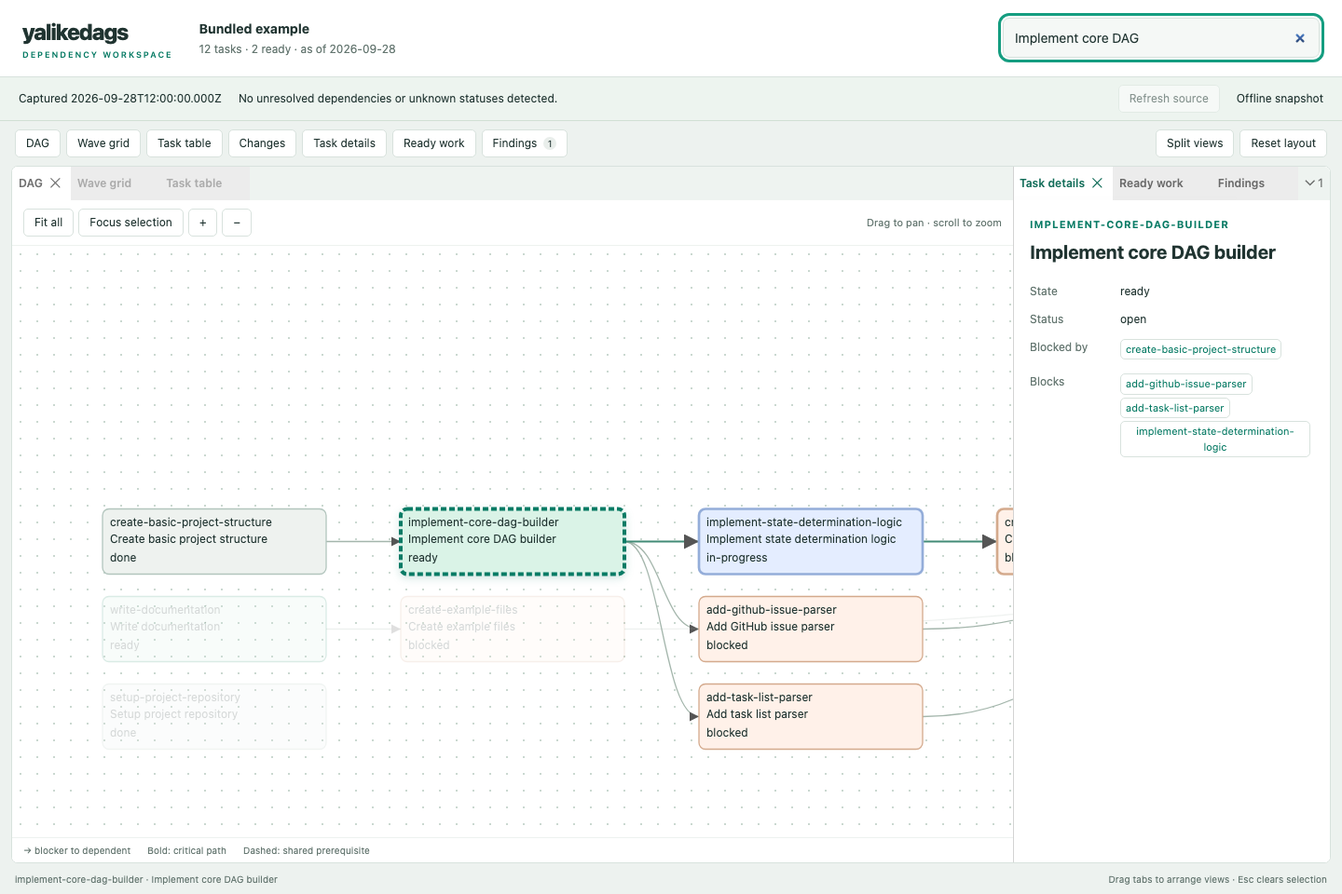
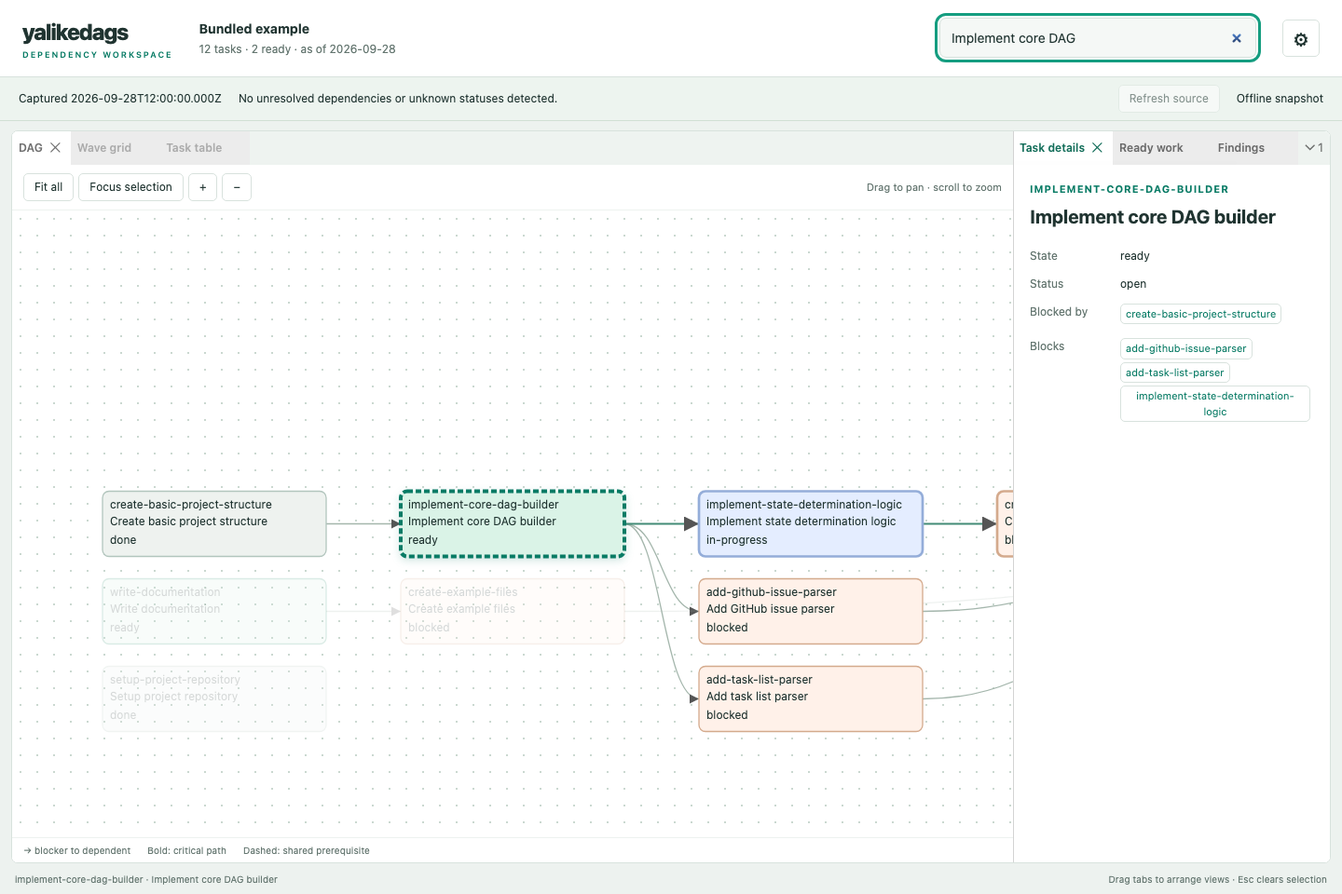
feat: move workspace actions into a header cog dropdown

diff --git a/e2e/viewer.pw.ts b/e2e/viewer.pw.ts
@@ -1,4 +1,4 @@
-import { dockWaveGrid } from "./workspace.ts";
+import { dockWaveGrid, workspaceAction } from "./workspace.ts";
 import { test, expect } from "@playwright/test";
 import { pathToFileURL } from "node:url";
 import { resolve } from "node:path";
@@ -26,9 +26,9 @@ for (const url of ["http://127.0.0.1:4178", exported]) {
     await page.locator("#search-results button").first().click();
     await expect(page.locator("#detail h2")).toContainText("Implement core DAG builder");
     await expect(page.locator("#graph .node.selected")).toHaveCount(1);
-    await page.getByRole("button", { name: "Show wave grid", exact: true }).click();
+    await workspaceAction(page, "Show wave grid");
     await expect(page.locator("#grid .card.selected")).toHaveCount(1);
-    await page.getByRole("button", { name: "Show DAG", exact: true }).click();
+    await workspaceAction(page, "Show DAG");
     const svg = page.locator("#graph svg");
     await page.getByRole("button", { name: "Fit all", exact: true }).click();
     const fitted = await svg.getAttribute("viewBox");
@@ -55,7 +55,7 @@ test("panels can be rearranged, restored and reset without losing selection", as
   await page.reload();
   await expect(page.locator("#graph")).toBeVisible();
   await expect(page.locator("#grid")).toBeVisible();
-  await page.getByRole("button", { name: "Reset layout", exact: true }).click();
+  await workspaceAction(page, "Reset layout");
   await expect(page.locator("#graph")).toBeVisible();
   await expect(page.locator("#grid")).not.toBeVisible();
 });
@@ -67,7 +67,7 @@ test("closing and reopening panels retains shared selection; nodes work from the
   await page.keyboard.press("Enter");
   await expect(page.locator("#detail h2")).toContainText("Implement core DAG builder");
   await page.getByRole("button", { name: "Close DAG", exact: true }).click();
-  await page.getByRole("button", { name: "Show DAG", exact: true }).click();
+  await workspaceAction(page, "Show DAG");
   await expect(page.locator("#graph .node.selected")).toHaveCount(1);
 });
 
@@ -97,7 +97,7 @@ test("empty projects, hostile text, and unavailable storage remain usable offlin
   await page.goto(pathToFileURL(resolve("dist/viewer-empty.html")).href);
   await expect(page.locator("body")).toHaveAttribute("data-ready", "true");
   await expect(page.locator("#graph-panel")).toContainText("No tasks");
-  await page.getByRole("button", { name: "Show wave grid", exact: true }).click();
+  await workspaceAction(page, "Show wave grid");
   await expect(page.locator("#grid")).toContainText("Nothing schedulable");
   await page.goto(pathToFileURL(resolve("dist/viewer-escaping.html")).href);
   await page.getByRole("searchbox", { name: "Find a task" }).fill("Unsafe");
@@ -105,7 +105,7 @@ test("empty projects, hostile text, and unavailable storage remain usable offlin
   await expect(page.locator("#detail h2")).toContainText("</script><img");
   await expect(page.locator("img")).toHaveCount(0);
   await expect(page.locator('a[href^="javascript:"]')).toHaveCount(0);
-  await page.getByRole("button", { name: "Reset layout", exact: true }).click();
+  await workspaceAction(page, "Reset layout");
   await expect(page.locator("#graph .node.selected")).toHaveCount(1);
   expect(errors).toEqual([]);
 });
@@ -116,7 +116,7 @@ test("a crowded graph is searchable and a narrow screen keeps controls reachable
   await page.getByRole("searchbox", { name: "Find a task" }).fill("PRO-150");
   await page.locator("#search-results button").first().click();
   await expect(page.locator("#detail h2")).toHaveText("Example task 150");
-  await page.getByRole("button", { name: "Show DAG", exact: true }).click();
+  await workspaceAction(page, "Show DAG");
   await expect(page.locator("#graph .node.selected")).toHaveCount(1);
   expect(await page.evaluate(() => document.documentElement.scrollWidth <= window.innerWidth)).toBe(true);
 });
@@ -145,21 +145,21 @@ test("a corrupt saved layout falls back to the default workspace", async ({ page
 
 test("task table sorts and filters while retaining the wave grid", async ({ page }) => {
   await page.goto(exported);
-  await page.getByRole("button", { name: "Show task table", exact: true }).click();
+  await workspaceAction(page, "Show task table");
   await page.getByRole("searchbox", { name: "Filter tasks" }).fill("parser");
   await expect(page.locator("#task-table tbody tr")).toHaveCount(2);
   await page.getByRole("button", { name: "Sort by Title", exact: true }).click();
   await expect(page.locator("#task-table thead th[aria-sort=ascending]")).toContainText("Title");
   await page.locator("#task-table tbody button").first().click();
   await expect(page.locator("#detail h2")).toContainText("parser");
-  await page.getByRole("button", { name: "Show wave grid", exact: true }).click();
+  await workspaceAction(page, "Show wave grid");
   await expect(page.locator("#grid")).toBeVisible();
 });
 
 test("served refresh preserves selection, filters, sorting and docked layout; failure preserves the page", async ({ page }) => {
   await page.addInitScript(() => { Object.defineProperty(window, "localStorage", { get: () => { throw new Error("Storage denied"); } }); });
   await page.goto("http://127.0.0.1:4178");
-  await page.getByRole("button", { name: "Show task table", exact: true }).click();
+  await workspaceAction(page, "Show task table");
   await page.getByRole("searchbox", { name: "Filter tasks", exact: true }).fill("parser");
   await page.getByRole("button", { name: "Sort by Title", exact: true }).click();
   await page.locator("#task-table tbody tr button").first().click();
@@ -177,7 +177,7 @@ test("served refresh preserves selection, filters, sorting and docked layout; fa
   await expect(page.locator("#detail h2")).toHaveText(selection ?? "");
   await expect(page.locator("#graph")).toBeVisible();
   await expect(page.locator("#grid")).toBeVisible();
-  await page.getByRole("button", { name: "Show task table", exact: true }).click();
+  await workspaceAction(page, "Show task table");
   await expect(page.getByRole("searchbox", { name: "Filter tasks", exact: true })).toHaveValue("parser");
   await expect(page.locator('#task-table th[aria-sort="ascending"]')).toHaveText("Title");
   await expect(page.locator("#task-table tbody tr")).toHaveCount(2);
@@ -188,7 +188,7 @@ test("offline comparison explains added blockers without sending the selected fi
   await page.goto(exported);
   page.on("request", (request) => requests.push(request.url()));
   await expect(page.getByRole("button", { name: "Refresh source", exact: true })).toBeDisabled();
-  await page.getByRole("button", { name: "Changes", exact: true }).click();
+  await workspaceAction(page, "Changes");
   await page.getByLabel("Compare snapshot JSON").setInputFiles({
     name: "earlier.json", mimeType: "application/json", buffer: Buffer.from(JSON.stringify({
       schema: "yalikedags/snapshot/1", capturedAt: "2026-09-20T10:00:00.000Z",
@@ -205,13 +205,13 @@ test("closing the task table preserves filters and does not break selection else
   const errors: string[] = [];
   page.on("pageerror", (error) => errors.push(error.message));
   await page.goto(exported);
-  await page.getByRole("button", { name: "Show task table", exact: true }).click();
+  await workspaceAction(page, "Show task table");
   await page.getByRole("searchbox", { name: "Filter tasks", exact: true }).fill("parser");
   await page.getByRole("button", { name: "Close Task table", exact: true }).click();
   await page.getByRole("searchbox", { name: "Find a task" }).fill("Implement core DAG");
   await page.locator("#search-results button").first().click();
   await expect(page.locator("#detail h2")).toContainText("Implement core DAG builder");
-  await page.getByRole("button", { name: "Show task table", exact: true }).click();
+  await workspaceAction(page, "Show task table");
   await expect(page.getByRole("searchbox", { name: "Filter tasks", exact: true })).toHaveValue("parser");
   await expect(page.locator("#task-table tbody tr")).toHaveCount(2);
   expect(errors).toEqual([]);
@@ -221,7 +221,7 @@ test("table headers stay flush with their scroll viewport in both directions", a
   await page.setViewportSize({ width: 1000, height: 500 });
   await page.goto(exported);
   for (const { view, selector } of [{ view: "Show task table", selector: "#table-panel .table-scroll" }, { view: "Show wave grid", selector: "#grid" }]) {
-    await page.getByRole("button", { name: view, exact: true }).click();
+    await workspaceAction(page, view);
     const viewport = page.locator(selector);
     await expect(viewport).toBeVisible();
     await viewport.evaluate((el) => { el.scrollTop = 120; el.scrollLeft = 80; });
@@ -237,7 +237,7 @@ test("table headers stay flush with their scroll viewport in both directions", a
 test("task rows use the same state colors as DAG nodes, including selected rows", async ({ page }) => {
   await page.goto(exported);
   const colors = await page.locator("#graph .node").evaluateAll((nodes) => nodes.map((node) => ({ id: node.getAttribute("data-id"), color: getComputedStyle(node.querySelector("rect")!).fill })));
-  await page.getByRole("button", { name: "Show task table", exact: true }).click();
+  await workspaceAction(page, "Show task table");
   for (const row of await page.locator("#task-table tbody tr").all()) {
     const id = await row.getAttribute("data-id");
     expect(await row.evaluate((el) => getComputedStyle(el).backgroundColor)).toBe(colors.find((entry) => entry.id === id)?.color);
@@ -247,4 +247,25 @@ test("task rows use the same state colors as DAG nodes, including selected rows"
   await expect(first).toHaveClass(/selected/);
   const selectedId = await first.getAttribute("data-id");
   expect(await first.evaluate((el) => getComputedStyle(el).backgroundColor)).toBe(colors.find((entry) => entry.id === selectedId)?.color);
+});
+
+test("workspace controls live in a dismissible keyboard-accessible header dropdown", async ({ page }) => {
+  await page.goto(exported);
+  const toggle = page.getByRole("button", { name: "Workspace settings", exact: true });
+  await expect(page.locator(".workspace-toolbar")).toHaveCount(0);
+  await expect(page.locator("header").getByRole("button", { name: "Workspace settings", exact: true })).toBeVisible();
+  await toggle.click();
+  await expect(toggle).toHaveAttribute("aria-expanded", "true");
+  await page.getByRole("button", { name: "Show task table", exact: true }).click();
+  await expect(page.locator("#task-table")).toBeVisible();
+  await expect(toggle).toHaveAttribute("aria-expanded", "false");
+  await toggle.focus();
+  await page.keyboard.press("ArrowDown");
+  await expect(page.getByRole("button", { name: "Show DAG", exact: true })).toBeFocused();
+  await page.keyboard.press("Escape");
+  await expect(toggle).toBeFocused();
+  await expect(toggle).toHaveAttribute("aria-expanded", "false");
+  await toggle.click();
+  await page.locator(".brand").click();
+  await expect(toggle).toHaveAttribute("aria-expanded", "false");
 });

diff --git a/src/viewer/browser/viewer.css b/src/viewer/browser/viewer.css
@@ -1,11 +1,11 @@
 :root{font:14px/1.5 -apple-system,BlinkMacSystemFont,"Segoe UI",sans-serif;color:#203431;background:#edf2ef;--accent:#087b65;--line:#d8e2dd;--muted:#647670}
 *{box-sizing:border-box}body{margin:0;height:100dvh;display:flex;flex-direction:column;overflow:hidden}button,input{font:inherit}button{cursor:pointer}button:focus-visible,input:focus-visible,a:focus-visible,.node:focus-visible{outline:3px solid #159d80;outline-offset:2px}button{color:inherit;background:#fff;border:1px solid var(--line);border-radius:5px;padding:5px 11px}button:hover{background:#eef6f2;border-color:#9ab5a9}a{color:var(--accent)}
 .app-header{display:flex;align-items:center;gap:28px;padding:16px 24px;background:#fff;border-bottom:1px solid var(--line)}.brand{font-size:24px;font-weight:800;letter-spacing:-1px;white-space:nowrap}.brand span{display:block;font-size:9px;font-weight:600;letter-spacing:1.8px;color:var(--accent)}.project{flex:1;min-width:0}.project strong{display:block;overflow:hidden;text-overflow:ellipsis;white-space:nowrap;font-size:14px}.project span{color:var(--muted);font-size:12px}.search{position:relative;width:340px;max-width:40vw}.search input{width:100%;padding:10px 12px;background:#f5f8f6;border:1px solid var(--line);border-radius:7px;color:inherit}.search input::placeholder{font-size:12px}#search-results{position:absolute;z-index:1000;top:46px;right:0;width:450px;max-width:90vw;max-height:360px;overflow:auto;background:#fff;border:1px solid var(--line);box-shadow:0 12px 32px #183d2c25;border-radius:6px;padding:6px}#search-results button{display:block;width:100%;text-align:left;border:0;padding:10px}#search-results p{margin:8px;color:var(--muted);font-size:12px}
-.workspace-toolbar{display:flex;align-items:center;gap:6px;padding:9px 16px;flex-wrap:wrap}.workspace-toolbar button{font-size:12px}.toolbar-spacer{flex:1}.count{font-size:10px;background:#e9eeeb;border-radius:9px;padding:1px 5px;margin-left:3px}#workspace{flex:1;min-height:0;margin:0 12px 10px;border:1px solid var(--line);border-radius:7px;overflow:hidden;background:#fff}.dockview-theme-light{--dv-background-color:#edf2ef;--dv-paneview-header-border-color:var(--line);--dv-activegroup-visiblepanel-tab-background-color:#fff;--dv-activegroup-visiblepanel-tab-color:#126d59;--dv-inactivegroup-visiblepanel-tab-background-color:#fff;--dv-tabs-and-actions-container-background-color:#eef3f0;--dv-tab-divider-color:transparent;--dv-active-sash-color:#159d80;--dv-tab-font-size:12px;--dv-tabs-and-actions-container-height:36px}.dv-tab{font-weight:600}.panel-host,.panel{height:100%;width:100%;min-height:0}.panel{background:#fff}.scroll-panel{overflow:auto;padding:18px}.panel-intro{font-size:12px;color:var(--muted);margin:0 0 16px}.graph-panel{display:flex;flex-direction:column}.panel-toolbar{display:flex;align-items:center;flex-wrap:wrap;gap:5px;padding:9px 12px;border-bottom:1px solid #edf2ef}.panel-toolbar button{font-size:12px}.panel-toolbar span{margin-left:auto;color:var(--muted);font-size:11px}#graph{flex:1;min-height:0;overflow:hidden;cursor:grab;background:radial-gradient(#cad8d0 .8px,transparent .8px) 0 0/18px 18px;touch-action:none}#graph:active{cursor:grabbing}#graph svg{width:100%;height:100%;display:block}.graph-legend{display:flex;gap:18px;flex-wrap:wrap;font-size:10px;color:var(--muted);padding:6px 12px;border-top:1px solid #edf2ef}
+.count{font-size:10px;background:#e9eeeb;border-radius:9px;padding:1px 5px;margin-left:3px}#workspace{flex:1;min-height:0;margin:0 12px 10px;border:1px solid var(--line);border-radius:7px;overflow:hidden;background:#fff}.dockview-theme-light{--dv-background-color:#edf2ef;--dv-paneview-header-border-color:var(--line);--dv-activegroup-visiblepanel-tab-background-color:#fff;--dv-activegroup-visiblepanel-tab-color:#126d59;--dv-inactivegroup-visiblepanel-tab-background-color:#fff;--dv-tabs-and-actions-container-background-color:#eef3f0;--dv-tab-divider-color:transparent;--dv-active-sash-color:#159d80;--dv-tab-font-size:12px;--dv-tabs-and-actions-container-height:36px}.dv-tab{font-weight:600}.panel-host,.panel{height:100%;width:100%;min-height:0}.panel{background:#fff}.scroll-panel{overflow:auto;padding:18px}.panel-intro{font-size:12px;color:var(--muted);margin:0 0 16px}.graph-panel{display:flex;flex-direction:column}.panel-toolbar{display:flex;align-items:center;flex-wrap:wrap;gap:5px;padding:9px 12px;border-bottom:1px solid #edf2ef}.panel-toolbar button{font-size:12px}.panel-toolbar span{margin-left:auto;color:var(--muted);font-size:11px}#graph{flex:1;min-height:0;overflow:hidden;cursor:grab;background:radial-gradient(#cad8d0 .8px,transparent .8px) 0 0/18px 18px;touch-action:none}#graph:active{cursor:grabbing}#graph svg{width:100%;height:100%;display:block}.graph-legend{display:flex;gap:18px;flex-wrap:wrap;font-size:10px;color:var(--muted);padding:6px 12px;border-top:1px solid #edf2ef}
 #graph .node rect{stroke:#b2c5bd;stroke-width:1.3;rx:7}#graph .node text{font-family:-apple-system,BlinkMacSystemFont,"Segoe UI",sans-serif;fill:#203431}#graph .node.done rect{fill:var(--task-fill)}#graph .node.ready rect{fill:var(--task-fill);stroke:#399376}#graph .node.blocked rect{fill:var(--task-fill);stroke:#d4aa8d}#graph .node.in-progress rect{fill:var(--task-fill);stroke:#94add9}#graph .edge{stroke:#a4b6ac;stroke-width:1.3}#graph .edge.critical{stroke:#428b76;stroke-width:2}#graph .node.critical rect{stroke-width:2.7}#graph .node.selected rect{stroke:#087b65;stroke-width:4;filter:drop-shadow(0 3px 4px #087b6530)}.node{cursor:pointer}.node.dim,.edge.dim,.card.dim{opacity:.18}.node:focus-visible{outline:none}.node:focus-visible rect{stroke:#087b65;stroke-width:4}
 #grid-table{border-collapse:separate;border-spacing:0;table-layout:fixed;width:max-content;min-width:100%}#grid-table th,#grid-table td{width:230px;min-width:230px;padding:10px;vertical-align:top;text-align:left;border-right:1px solid var(--line);border-bottom:1px solid var(--line)}#grid-table th{background:#f1f6f3;font-size:12px;font-weight:600}#grid-table thead th{position:sticky;top:0;z-index:2}#grid-table tbody th{position:sticky;left:0;z-index:1;width:150px;min-width:150px;overflow-wrap:anywhere}#grid-table thead th:first-child{left:0;z-index:3;width:150px;min-width:150px}.card{display:block;text-align:left;width:100%;margin:0 0 7px;padding:9px 10px;border-left:3px solid #bdcbc3;white-space:normal;overflow-wrap:anywhere}.card b{display:block;font-size:11px;color:#486359}.card span{display:block;font-size:12px;margin:3px 0}.card small{font-size:10px;color:var(--muted)}.card.ready{background:#effaf4;border-left-color:#389774}.card.blocked{background:#fff9f4;border-left-color:#d4aa8d}.card.in-progress{background:#f0f5ff;border-left-color:#789fd4}.card.critical{border-left-width:5px}.card.gatekeeper{border-style:dashed}.card.selected{outline:2px solid var(--accent);outline-offset:1px;background:#e5f6ee}
 #detail h2{font-size:20px;line-height:1.3;margin:0 0 20px;overflow-wrap:anywhere}.eyebrow{font-size:11px;text-transform:uppercase;letter-spacing:1px;font-weight:700;color:var(--accent);margin:0 0 8px}dl{display:grid;grid-template-columns:85px minmax(0,1fr);gap:12px;font-size:12px}dt{color:var(--muted)}dd{margin:0;overflow-wrap:anywhere}.task-link{font-size:11px;padding:2px 5px;margin:0 3px 3px 0;color:var(--accent)}pre{white-space:pre-wrap;overflow-wrap:anywhere;font:12px/1.6 ui-monospace,monospace;border-top:1px solid var(--line);padding-top:14px}.task-list{list-style:none;margin:0;padding:0}.task-list li{padding:12px 0;border-bottom:1px solid var(--line)}.task-list li:first-child{padding-top:0}.task-list p,.task-list small{font-size:12px;overflow-wrap:anywhere}.task-list strong{font-size:11px;text-transform:uppercase;letter-spacing:.6px;display:block;margin-bottom:8px;color:#8b5939}.muted,.empty{color:var(--muted);font-size:12px}.empty{padding:18px;line-height:1.8}.sr-only{position:absolute;width:1px;height:1px;padding:0;margin:-1px;overflow:hidden;clip:rect(0,0,0,0);white-space:nowrap;border:0}footer{display:flex;justify-content:space-between;gap:12px;font-size:10px;color:var(--muted);padding:0 16px 8px}#selection-status{overflow:hidden;text-overflow:ellipsis;white-space:nowrap}
-@media(max-width:800px){.app-header{gap:12px;padding:12px;flex-wrap:wrap}.brand{font-size:20px}.project{min-width:180px}.search{width:100%;max-width:100%}.workspace-toolbar{padding:6px 10px;gap:4px}.workspace-toolbar button{font-size:11px}#workspace{margin:0 6px 6px}footer>span:last-child{display:none}.panel-toolbar span{display:none}.graph-legend{font-size:9px}}
+@media(max-width:800px){.app-header{gap:12px;padding:12px;flex-wrap:wrap}.brand{font-size:20px}.project{min-width:180px}.search{width:100%;max-width:100%}#workspace{margin:0 6px 6px}footer>span:last-child{display:none}.panel-toolbar span{display:none}.graph-legend{font-size:9px}}
 .snapshot-status {display:flex;flex-wrap:wrap;align-items:center;gap:8px 18px;padding:8px 20px;background:#edf4ef;font-size:12px;border-bottom:1px solid #d1dfd4;flex-shrink:0}
 .snapshot-status.partial {background:#fff1d6;color:#644612}
 .snapshot-status #refresh {margin-left:auto}
@@ -37,3 +37,13 @@ button:disabled {opacity:.5;cursor:default}
 .node.blocked,#task-table tr.blocked {--task-fill:#fff1e9}
 .node.in-progress,#task-table tr.in-progress {--task-fill:#e4edff}
 .node.unresolved,#task-table tr.unresolved {--task-fill:#fff0c9}
+
+.workspace-controls {position:relative;flex-shrink:0}
+.workspace-settings {display:grid;place-items:center;width:40px;height:40px;padding:0;font-size:24px;line-height:1}
+.workspace-menu {position:absolute;z-index:2000;right:0;top:calc(100% + 8px);width:230px;max-width:calc(100vw - 24px);padding:6px;background:#fff;border:1px solid var(--line);border-radius:8px;box-shadow:0 10px 30px #183d2c25}
+.workspace-menu button {display:block;width:100%;text-align:left;border:0;padding:9px 12px;font-size:13px}
+.workspace-menu button[hidden],.workspace-menu[hidden] {display:none}
+.workspace-menu hr {border:0;border-top:1px solid var(--line);margin:6px}
+.workspace-controls:has(#filter-summary:not([hidden]))>.workspace-settings::after {content:"";position:absolute;right:3px;top:3px;width:7px;height:7px;border-radius:50%;background:var(--accent)}
+#workspace {margin-top:10px}
+@media(max-width:800px){.search{order:3}.workspace-controls{order:2}.project{min-width:100px}#workspace{margin-top:6px}}

diff --git a/src/viewer/ViewerPage.ts b/src/viewer/ViewerPage.ts
@@ -13,13 +13,13 @@ export function viewerPage(a: Analysis, assets: { svg: string; snapshotJson: str
 <title>${esc(a.source)} · yalikedags</title><style>${viewerStyles.replace(/<\/style/gi, "<\\/style")}</style></head>
 <body data-source="${esc(a.source)}"><header class="app-header"><div class="brand">yalikedags<span>DEPENDENCY WORKSPACE</span></div>
 <div class="project"><strong>${esc(a.source)}</strong><span>${String(a.dag.size)} tasks · ${String(a.frontier.length)} ready · as of ${esc(a.asOf)}</span></div>
-<div class="search"><label class="sr-only" for="search">Find a task</label><input id="search" type="search" placeholder="Find a task by key, title or assignee…" autocomplete="off"><div id="search-results" hidden></div></div></header>
-${viewerMetadata(a, options)}
-<nav class="workspace-toolbar" aria-label="Workspace views">
+<div class="search"><label class="sr-only" for="search">Find a task</label><input id="search" type="search" placeholder="Find a task by key, title or assignee…" autocomplete="off"><div id="search-results" hidden></div></div><div id="workspace-controls" class="workspace-controls"><button id="workspace-settings" class="workspace-settings" aria-label="Workspace settings" title="Views and layout" aria-expanded="false" aria-controls="workspace-menu"><span aria-hidden="true">⚙</span></button><nav id="workspace-menu" class="workspace-menu" aria-label="Workspace views" hidden>
 <button data-panel="graph" aria-label="Show DAG">DAG</button><button data-panel="grid" aria-label="Show wave grid">Wave grid</button>
 <button data-panel="table" aria-label="Show task table">Task table</button><button data-panel="changes">Changes</button>
 <button data-panel="details">Task details</button><button data-panel="ready">Ready work</button><button data-panel="findings">Findings <span class="count">${String(a.findings.length)}</span></button>
-<button id="filter-summary" data-panel="table" hidden></button><span class="toolbar-spacer"></span><button data-action="reset">Reset layout</button></nav>
+<button id="filter-summary" data-panel="table" hidden></button><hr><button data-action="reset">Reset layout</button></nav></div></header>
+${viewerMetadata(a, options)}
+
 <main id="workspace" aria-label="Task workspace"></main><footer><span id="selection-status" role="status">Select a task to trace its dependencies.</span><span>Drag tabs to arrange views · Esc clears selection</span></footer>
 ${new ViewerPanels(a, options.changes).render(assets.svg)}
 <noscript>This viewer needs JavaScript to display its panels. The snapshot data is embedded in this file.</noscript>

diff --git a/src/viewer/browser/WorkspaceMenu.ts b/src/viewer/browser/WorkspaceMenu.ts
@@ -1,0 +1,46 @@
+import { element } from "./Dom.ts";
+
+/** A disclosure of ordinary buttons, with keyboard navigation and focus restoration. */
+export class WorkspaceMenu {
+  private readonly toggle = element("workspace-settings");
+  private readonly menu = element("workspace-menu");
+  private readonly root = element("workspace-controls");
+
+  constructor() {
+    this.toggle.addEventListener("click", () => { this.setOpen(this.menu.hidden); });
+    this.menu.addEventListener("click", (event) => {
+      if (event.target instanceof Element && event.target.closest("button") !== null) { this.close(); }
+    });
+    this.root.addEventListener("keydown", (event) => { this.key(event); });
+    this.root.addEventListener("focusout", (event) => {
+      if (event.relatedTarget instanceof Node && !this.root.contains(event.relatedTarget)) { this.setOpen(false); }
+    });
+    document.addEventListener("click", (event) => {
+      if (event.target instanceof Node && !this.root.contains(event.target)) { this.setOpen(false); }
+    });
+  }
+
+  private setOpen(open: boolean): void {
+    this.menu.hidden = !open;
+    this.toggle.setAttribute("aria-expanded", String(open));
+  }
+
+  private close(): void { this.setOpen(false); this.toggle.focus(); }
+
+  private key(event: KeyboardEvent): void {
+    if (event.key === "Escape" && !this.menu.hidden) {
+      event.preventDefault(); event.stopPropagation(); this.close(); return;
+    }
+    if (!["ArrowDown", "ArrowUp", "Home", "End"].includes(event.key)) { return; }
+    event.preventDefault(); this.setOpen(true);
+    const buttons = Array.from(this.menu.querySelectorAll<HTMLButtonElement>("button:not([hidden]):not(:disabled)"));
+    const current = buttons.findIndex((button) => button === document.activeElement);
+    buttons[this.next(event.key, current, buttons.length)]?.focus();
+  }
+
+  private next(key: string, current: number, count: number): number {
+    if (key === "Home") { return 0; }
+    if (key === "End" || (key === "ArrowUp" && current < 0)) { return count - 1; }
+    return (current + (key === "ArrowDown" ? 1 : -1) + count) % count;
+  }
+}

diff --git a/scripts/viewer-screenshots.ts b/scripts/viewer-screenshots.ts
@@ -1,4 +1,4 @@
-import { dockWaveGrid } from "../e2e/workspace.ts";
+import { dockWaveGrid, workspaceAction } from "../e2e/workspace.ts";
 import { mkdir } from "node:fs/promises";
 import { resolve } from "node:path";
 import { pathToFileURL } from "node:url";
@@ -25,7 +25,7 @@ try {
   await dockWaveGrid(page);
   await page.getByRole("button", { name: "Focus selection", exact: true }).click();
   await page.screenshot({ path: "docs/images/viewer-split.png" });
-  await page.getByRole("button", { name: "Show task table", exact: true }).click();
+  await workspaceAction(page, "Show task table");
   await page.screenshot({ path: "docs/images/viewer-table.png" });
 } finally { await browser.close(); }
 console.log("viewer screenshots written to docs/images/");

diff --git a/src/viewer/browser/main.ts b/src/viewer/browser/main.ts
@@ -1,3 +1,4 @@
+import { WorkspaceMenu } from "./WorkspaceMenu.ts";
 import "dockview/dist/styles/dockview.css";
 import "./viewer.css";
 import { JsonSnapshotRepositoryAdapter } from "../../adapters/input/JsonSnapshotRepositoryAdapter.ts";
@@ -14,6 +15,7 @@ import { RefreshController } from "./RefreshController.ts";
 import { ChangesController } from "./ChangesController.ts";
 
 async function start(): Promise<void> {
+  new WorkspaceMenu();
   const state = new ViewerState(await new JsonSnapshotRepositoryAdapter(element("snapshot").textContent, "embedded").load());
   const session = new SessionState();
   const workspace = new Workspace(session.layout());

diff --git a/e2e/workspace.ts b/e2e/workspace.ts
@@ -10,3 +10,8 @@ export async function dockWaveGrid(page: Page): Promise<void> {
     force: true, targetPosition: { x: bounds.width / 2, y: bounds.height - 15 },
   });
 }
+
+export async function workspaceAction(page: Page, name: string): Promise<void> {
+  await page.getByRole("button", { name: "Workspace settings", exact: true }).click();
+  await page.getByRole("button", { name, exact: true }).click();
+}

diff --git a/docs/reference/viewer.md b/docs/reference/viewer.md
@@ -22,7 +22,7 @@ A wave is a forecast of parallel work, not a deadline or a scheduling barrier. T
 
 ## Arrange your views
 
-Drag a tab to dock it beside or beneath another view, or keep several views together as tabs. Drag dividers to resize. Close tabs you do not need; the toolbar reopens them.
+Drag a tab to dock it beside or beneath another view, or keep several views together as tabs. Drag dividers to resize. Close tabs you do not need; the header’s **Workspace settings** cog menu reopens them.
 
 Docked layout and sizes are saved locally in the browser, shared between snapshots on the same origin. Storage contains panel layout, not task data or selection. File URL storage behavior depends on the browser. When storage is unavailable or invalid, the viewer starts with its default layout. **Reset layout** restores the default arrangement without clearing the selection.
 
@@ -42,14 +42,16 @@ Selecting a task dims unrelated nodes, cards, and edges. Its ancestors and desce
 
 ![Selected task with its dependency chain emphasized and details visible](../images/viewer-selection.png)
 
+The header cog opens the view/layout dropdown. Choose an action to close it; Escape returns focus to the cog, and clicking outside dismisses it. Arrow keys, Home, and End navigate its buttons. A green dot indicates active table filters.
+
 ## Controls and visual cues
 
 | Action | Control |
 |---|---|
-| open or reopen a view | toolbar button |
+| open or reopen a view | **Workspace settings** cog → view |
 | arrange views | drag tabs or dividers |
 | show DAG and grid together | drag the Wave grid tab to the bottom edge of the DAG group |
-| restore the default arrangement | **Reset layout** |
+| restore the default arrangement | **Workspace settings** cog → **Reset layout** |
 | pan | drag inside the graph; dragging does not select a node |
 | zoom | mouse wheel over the graph, or **+** / **−** |
 | show the whole graph | **Fit all** |
@@ -63,7 +65,7 @@ Task state appears as text as well as color. Task-table rows share the DAG state
 
 An empty snapshot says **No tasks in this snapshot**. A grid with no schedulable open work explains that tasks may be closed or have cycles or unresolved dependencies. Ready work and Findings each have explicit empty states.
 
-The snapshot is loaded before the page opens. **Refresh source** explicitly rereads it through the local server, then reloads the page with the workspace state restored. There is no polling. A failed read keeps the previous snapshot and displays an error; concurrent refresh requests share one read. Offline exports disable refresh. Invalid embedded data produces a visible startup error. Closing every panel leaves the toolbar available to reopen views or reset the layout. An unknown server path returns `404 not found`.
+The snapshot is loaded before the page opens. **Refresh source** explicitly rereads it through the local server, then reloads the page with the workspace state restored. There is no polling. A failed read keeps the previous snapshot and displays an error; concurrent refresh requests share one read. Offline exports disable refresh. Invalid embedded data produces a visible startup error. Closing every panel leaves the cog menu available to reopen views or reset the layout. An unknown server path returns `404 not found`.
 
 ## Freshness and comparison
 

diff --git a/README.md b/README.md
@@ -17,7 +17,7 @@ It's for the whole team. Everyone's got their own Linear key in their own keycha
 
 And when ya want someone else to see it who hasn't got the tool, or the key, or the first idea what a terminal is: `render --format html --out dag.html`. One file. Whole viewer in it, graph and all. Opens by double-clicking, asks the internet for nothing, works on a plane. Send it to whoever ya like.
 
-The viewer now has dockable views: DAG, wave grid, task table, task details, ready work, and findings. The task table supports sorting, search, and state/assignee/milestone/label filters. Search for a task, split the graph and grid, drag tabs to arrange your workspace, or reset the layout. The exported HTML still carries everything in one offline file.
+The viewer now has dockable views: DAG, wave grid, task table, task details, ready work, and findings. The task table supports sorting, search, and state/assignee/milestone/label filters. Search for a task, drag tabs to arrange your workspace, and use the header cog to open views or reset the layout. The exported HTML still carries everything in one offline file.
 
 ## Start here
 

diff --git a/docs/how-to/open-the-viewer.md b/docs/how-to/open-the-viewer.md
@@ -26,7 +26,7 @@ Open the address. To pick the port yourself, add `--port 8787`.
 
 ## Verify
 
-The page opens with a DAG and Ready work. Search for a task or click a node: Task details opens and unrelated work dims. Press **Wave grid** to inspect the same selection in a table, or drag its tab beside the DAG to see both at once. Drag tabs and dividers to arrange the workspace; **Reset layout** restores the default. The page loads without further network requests. **Refresh source** explicitly rereads the source through the local server; the key stays on the server.
+The page opens with a DAG and Ready work. Search for a task or click a node: Task details opens and unrelated work dims. Open the header’s **Workspace settings** cog and choose **Wave grid** to inspect the same selection in a table, or drag its tab beside the DAG to see both at once. Drag tabs and dividers to arrange the workspace; the cog menu’s **Reset layout** restores the default. The page loads without further network requests. **Refresh source** explicitly rereads the source through the local server; the key stays on the server.
 
 ## Common variations
 

diff --git a/CHANGELOG.md b/CHANGELOG.md
@@ -4,6 +4,8 @@ All notable changes to this project are documented here. The format follows Keep
 
 ## [Unreleased]
 
+- Move view and layout actions into a header cog dropdown with keyboard navigation, focus restoration, and outside-click dismissal.
+
 - Remove the one-shot Split views action; arrange multiple views by dragging their tabs instead.
 
 - Match task-table row colors to DAG node states, preserving state color when a row is selected.
